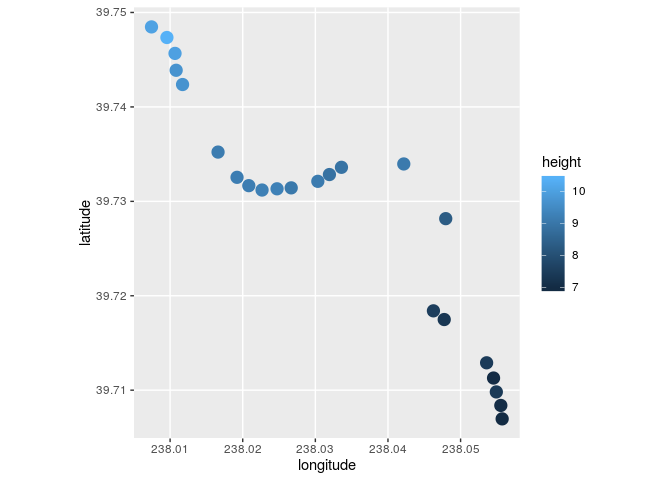
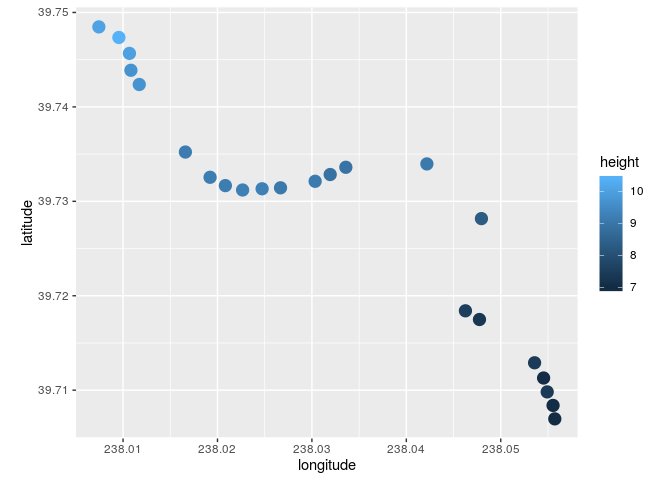
scrap coord_map because of dependency

diff --git a/README.md b/README.md
@@ -120,7 +120,7 @@ mapdf_orig <- paste0("nodes/", plotvars) %>%
 mapdf_orig %>% 
   ggplot(aes(x = longitude, y = latitude, color = height)) + 
   geom_point(size = 4) +
-  coord_map()
+  coord_equal()
 ```
 
 ![](man/figures/README-unnamed-chunk-4-1.png)<!-- -->
@@ -140,7 +140,7 @@ mapdf_dimss <- paste0("nodes/", plotvars) %>%
 mapdf_dimss %>% 
   ggplot(aes(x = longitude, y = latitude, color = height)) + 
   geom_point(size = 4) +
-  coord_map()
+  coord_equal()
 ```
 
 ![](man/figures/README-unnamed-chunk-5-1.png)<!-- -->
@@ -159,7 +159,7 @@ mapdf_varss <- paste0("nodes/", plotvars) %>%
 mapdf_varss %>% 
   ggplot(aes(x = longitude, y = latitude, color = height)) + 
   geom_point(size = 4) +
-  coord_map()
+  coord_equal()
 ```
 
 ![](man/figures/README-unnamed-chunk-6-1.png)<!-- -->
@@ -181,7 +181,7 @@ mapdf_vardimss <- paste0("nodes/", plotvars) %>%
 mapdf_vardimss %>% 
   ggplot(aes(x = longitude, y = latitude, color = height)) + 
   geom_point(size = 4) +
-  coord_map()
+  coord_equal()
 ```
 
 ![](man/figures/README-unnamed-chunk-7-1.png)<!-- -->
